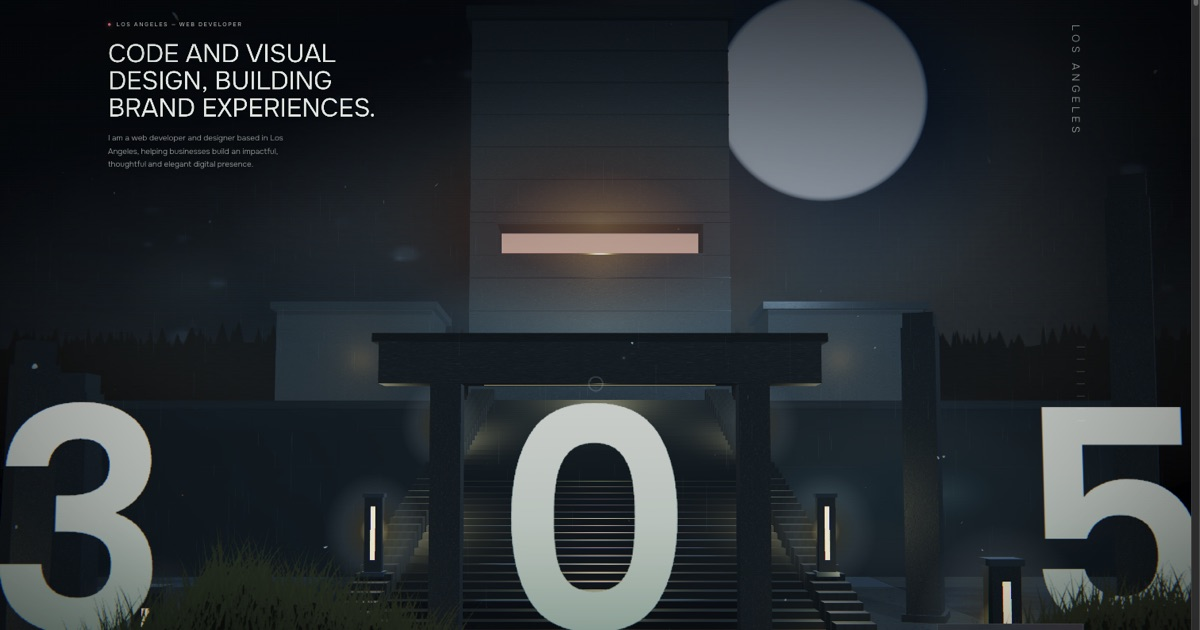
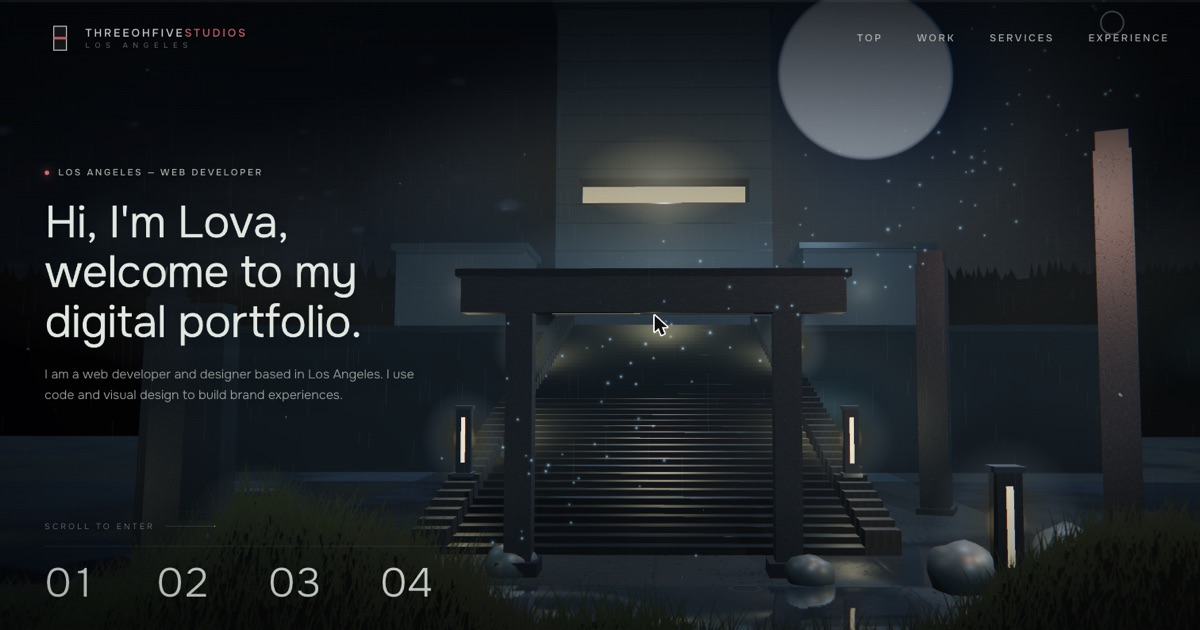
Give the roles a phone layout, and name the page for its address
The roles list on a narrow frame spent eighty-three pixels of four hundred on
furniture: a year sitting in its own column beside the title, and each role
indented one step further than the last so the list climbs the way the scene
does. Neither survives the width. The staircase is invisible at that size, and
the column costs the titles a fifth of their measure — so below 560px the year
goes above its title, the indent goes to nothing, and the text takes the whole
frame back. A third more room, and the rows read as a timeline rather than as
a table that has run out of space.

Nothing was broken there, which is worth writing down: no overflow, nothing off
screen, scrollWidth equal to the viewport. It was proportion, not breakage.

The head now describes the page that exists. The title and description still
sold "code and visual design for brand experiences" from an earlier draft of
the copy, which is what a search result and a shared link were showing, and the
share card was a capture of a hero with the 305 across it — a numeral that is
no longer in the scene. Both are current, and the SITE-URL lines carry a real
address for the first time: threeohfivestudios.com/portfolio, alongside a
canonical link, so the page can be found and shared as itself.

Claude-Session: https://claude.ai/code/session_014UqdiAXP41NSZzet8HAiRN

diff --git a/index.html b/index.html
@@ -3,35 +3,36 @@
 <head>
 <meta charset="utf-8">
 <meta name="viewport" content="width=device-width, initial-scale=1, viewport-fit=cover">
-<title>ThreeOhFive Studios — Code and visual design for brand experiences</title>
-<meta name="description" content="Lova Rakoto — web developer and designer in Los Angeles. Code and visual design brought together to build brand experiences, in a live WebGL scene generated at runtime.">
+<title>Lova Rakoto — Web developer and designer in Los Angeles</title>
+<meta name="description" content="I specialize in helping businesses and individuals create an impactful, thoughtful, and elegant digital presence. Ten years designing and building for brands like Mattel, Newegg and USC — in a portfolio whose every surface is generated in the browser at load.">
 
 <!-- Social preview. A portfolio's job is to survive being pasted into a Slack
      DM or a LinkedIn message, and without these it arrives as a bare grey URL
      — no image, no title — which is a poor showing for a page whose whole
      argument is how it looks.
 
-     ==> BEFORE DEPLOY: this page has no domain yet, so og:image is relative and
-     og:url is absent. Scrapers do not run JavaScript and several will not
-     resolve a relative image, so when there is a URL, set og:url and make both
-     image tags absolute against it. Those three lines are the only ones that
-     change; grep for SITE-URL. The card is assets/brand/og-cover.jpg, a 1200x630
-     capture of the hero — regenerate it if the scene's opening frame changes. -->
+     The absolute URLs are deliberate: scrapers do not run JavaScript and
+     several will not resolve a relative og:image, so these have to name the
+     host. If the page ever moves, grep SITE-URL — those three lines are the
+     only ones that carry the address. The card is assets/brand/og-cover.jpg,
+     a 1200x630 capture of the hero; regenerate it when the opening frame
+     changes, or the preview shows a page that no longer exists. -->
 <meta property="og:type" content="website">
 <meta property="og:site_name" content="ThreeOhFive Studios">
-<meta property="og:title" content="ThreeOhFive Studios — Code and visual design for brand experiences">
-<meta property="og:description" content="Lova Rakoto — web developer and designer in Los Angeles. A portfolio built as a live WebGL scene: a concrete slab, forty steps, one slot of light.">
-<meta property="og:image" content="assets/brand/og-cover.jpg"><!-- SITE-URL: make absolute -->
+<meta property="og:title" content="Lova Rakoto — Web developer and designer in Los Angeles">
+<meta property="og:description" content="Ten years designing and building for brands like Mattel, Newegg and USC. A portfolio built as a live WebGL scene: a concrete slab, forty steps, one slot of light.">
+<meta property="og:image" content="https://threeohfivestudios.com/portfolio/assets/brand/og-cover.jpg"><!-- SITE-URL -->
 <meta property="og:image:width" content="1200">
 <meta property="og:image:height" content="630">
 <meta property="og:image:alt" content="A board-formed concrete slab at night, lit by one horizontal slot, standing above a forty-step flight, with the numerals 3 0 5 across the frame.">
-<!-- SITE-URL: <meta property="og:url" content="https://example.com/"> -->
+<meta property="og:url" content="https://threeohfivestudios.com/portfolio/"><!-- SITE-URL -->
 <meta name="twitter:card" content="summary_large_image">
-<meta name="twitter:title" content="ThreeOhFive Studios — Code and visual design for brand experiences">
-<meta name="twitter:description" content="Lova Rakoto — web developer and designer in Los Angeles. A portfolio built as a live WebGL scene: a concrete slab, forty steps, one slot of light.">
-<meta name="twitter:image" content="assets/brand/og-cover.jpg"><!-- SITE-URL: make absolute -->
+<meta name="twitter:title" content="Lova Rakoto — Web developer and designer in Los Angeles">
+<meta name="twitter:description" content="Ten years designing and building for brands like Mattel, Newegg and USC. A portfolio built as a live WebGL scene: a concrete slab, forty steps, one slot of light.">
+<meta name="twitter:image" content="https://threeohfivestudios.com/portfolio/assets/brand/og-cover.jpg"><!-- SITE-URL -->
 <meta name="twitter:image:alt" content="A board-formed concrete slab at night, lit by one horizontal slot, standing above a forty-step flight, with the numerals 3 0 5 across the frame.">
 
+<link rel="canonical" href="https://threeohfivestudios.com/portfolio/">
 <link rel="icon" href="assets/brand/icon-32.webp" sizes="32x32">
 <link rel="icon" href="assets/brand/icon-192.webp" sizes="192x192">
 <link rel="apple-touch-icon" href="assets/brand/icon-180.webp">
@@ -1097,6 +1098,20 @@ body[data-layout-footer="b"] .foot-base span:last-child{ text-align:right; }
    to a line. Standing the numeral above the label gives the copy the whole
    column back. */
 @media (max-width:560px){
+  /* The roles, on a phone.
+     The desktop row is a year in a column beside a title, with each role
+     indented one step further than the last — the list climbing the way the
+     scene does. On a 414px frame that furniture costs eighty-odd pixels of
+     the four hundred, and it buys a staircase nobody can see at that width.
+     The year goes above its title, the indent goes to nothing, and the text
+     gets the whole measure back: a third more room, and the rows read as a
+     timeline rather than as a table that has run out of space. */
+  .xp li{ grid-template-columns:minmax(0,1fr); gap:2px; padding:18px 0 20px; --going:0px; }
+  .xp li .xp-y{ grid-column:1; font-size:10px; }
+  .xp li b{ grid-column:1; font-size:15px; line-height:1.35; }
+  .xp li p{ grid-column:1; margin-top:7px; font-size:13px; }
+  .xp li:nth-child(n){ margin-left:0; }
+
   body[data-layout-hero="b"] .chip{ flex-direction:column; gap:4px; }
   body[data-layout-hero="b"] .chip .num{ font-size:clamp(22px,7.4vw,30px); }
   body[data-layout-hero="b"] .chip .tx{ padding-top:0; }
